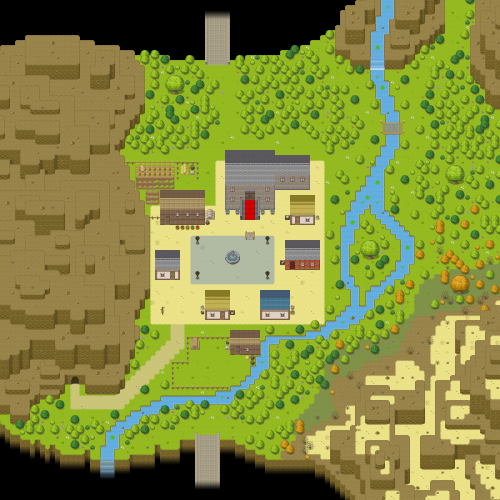
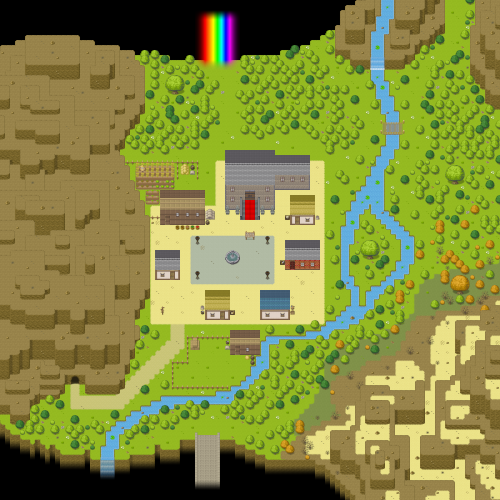
replaced the texture for the bridge to asgard with a rainbow bridge

diff --git a/desktop/src/net/jfabricationgames/gdx/desktop/DesktopLauncher.java b/desktop/src/net/jfabricationgames/gdx/desktop/DesktopLauncher.java
@@ -20,7 +20,7 @@ public class DesktopLauncher {
 		config.width = 1200;
 		config.height = 800;
 		config.vSyncEnabled = true;
-		config.fullscreen = true;
+		config.fullscreen = false;
 		return config;
 	}
 	
